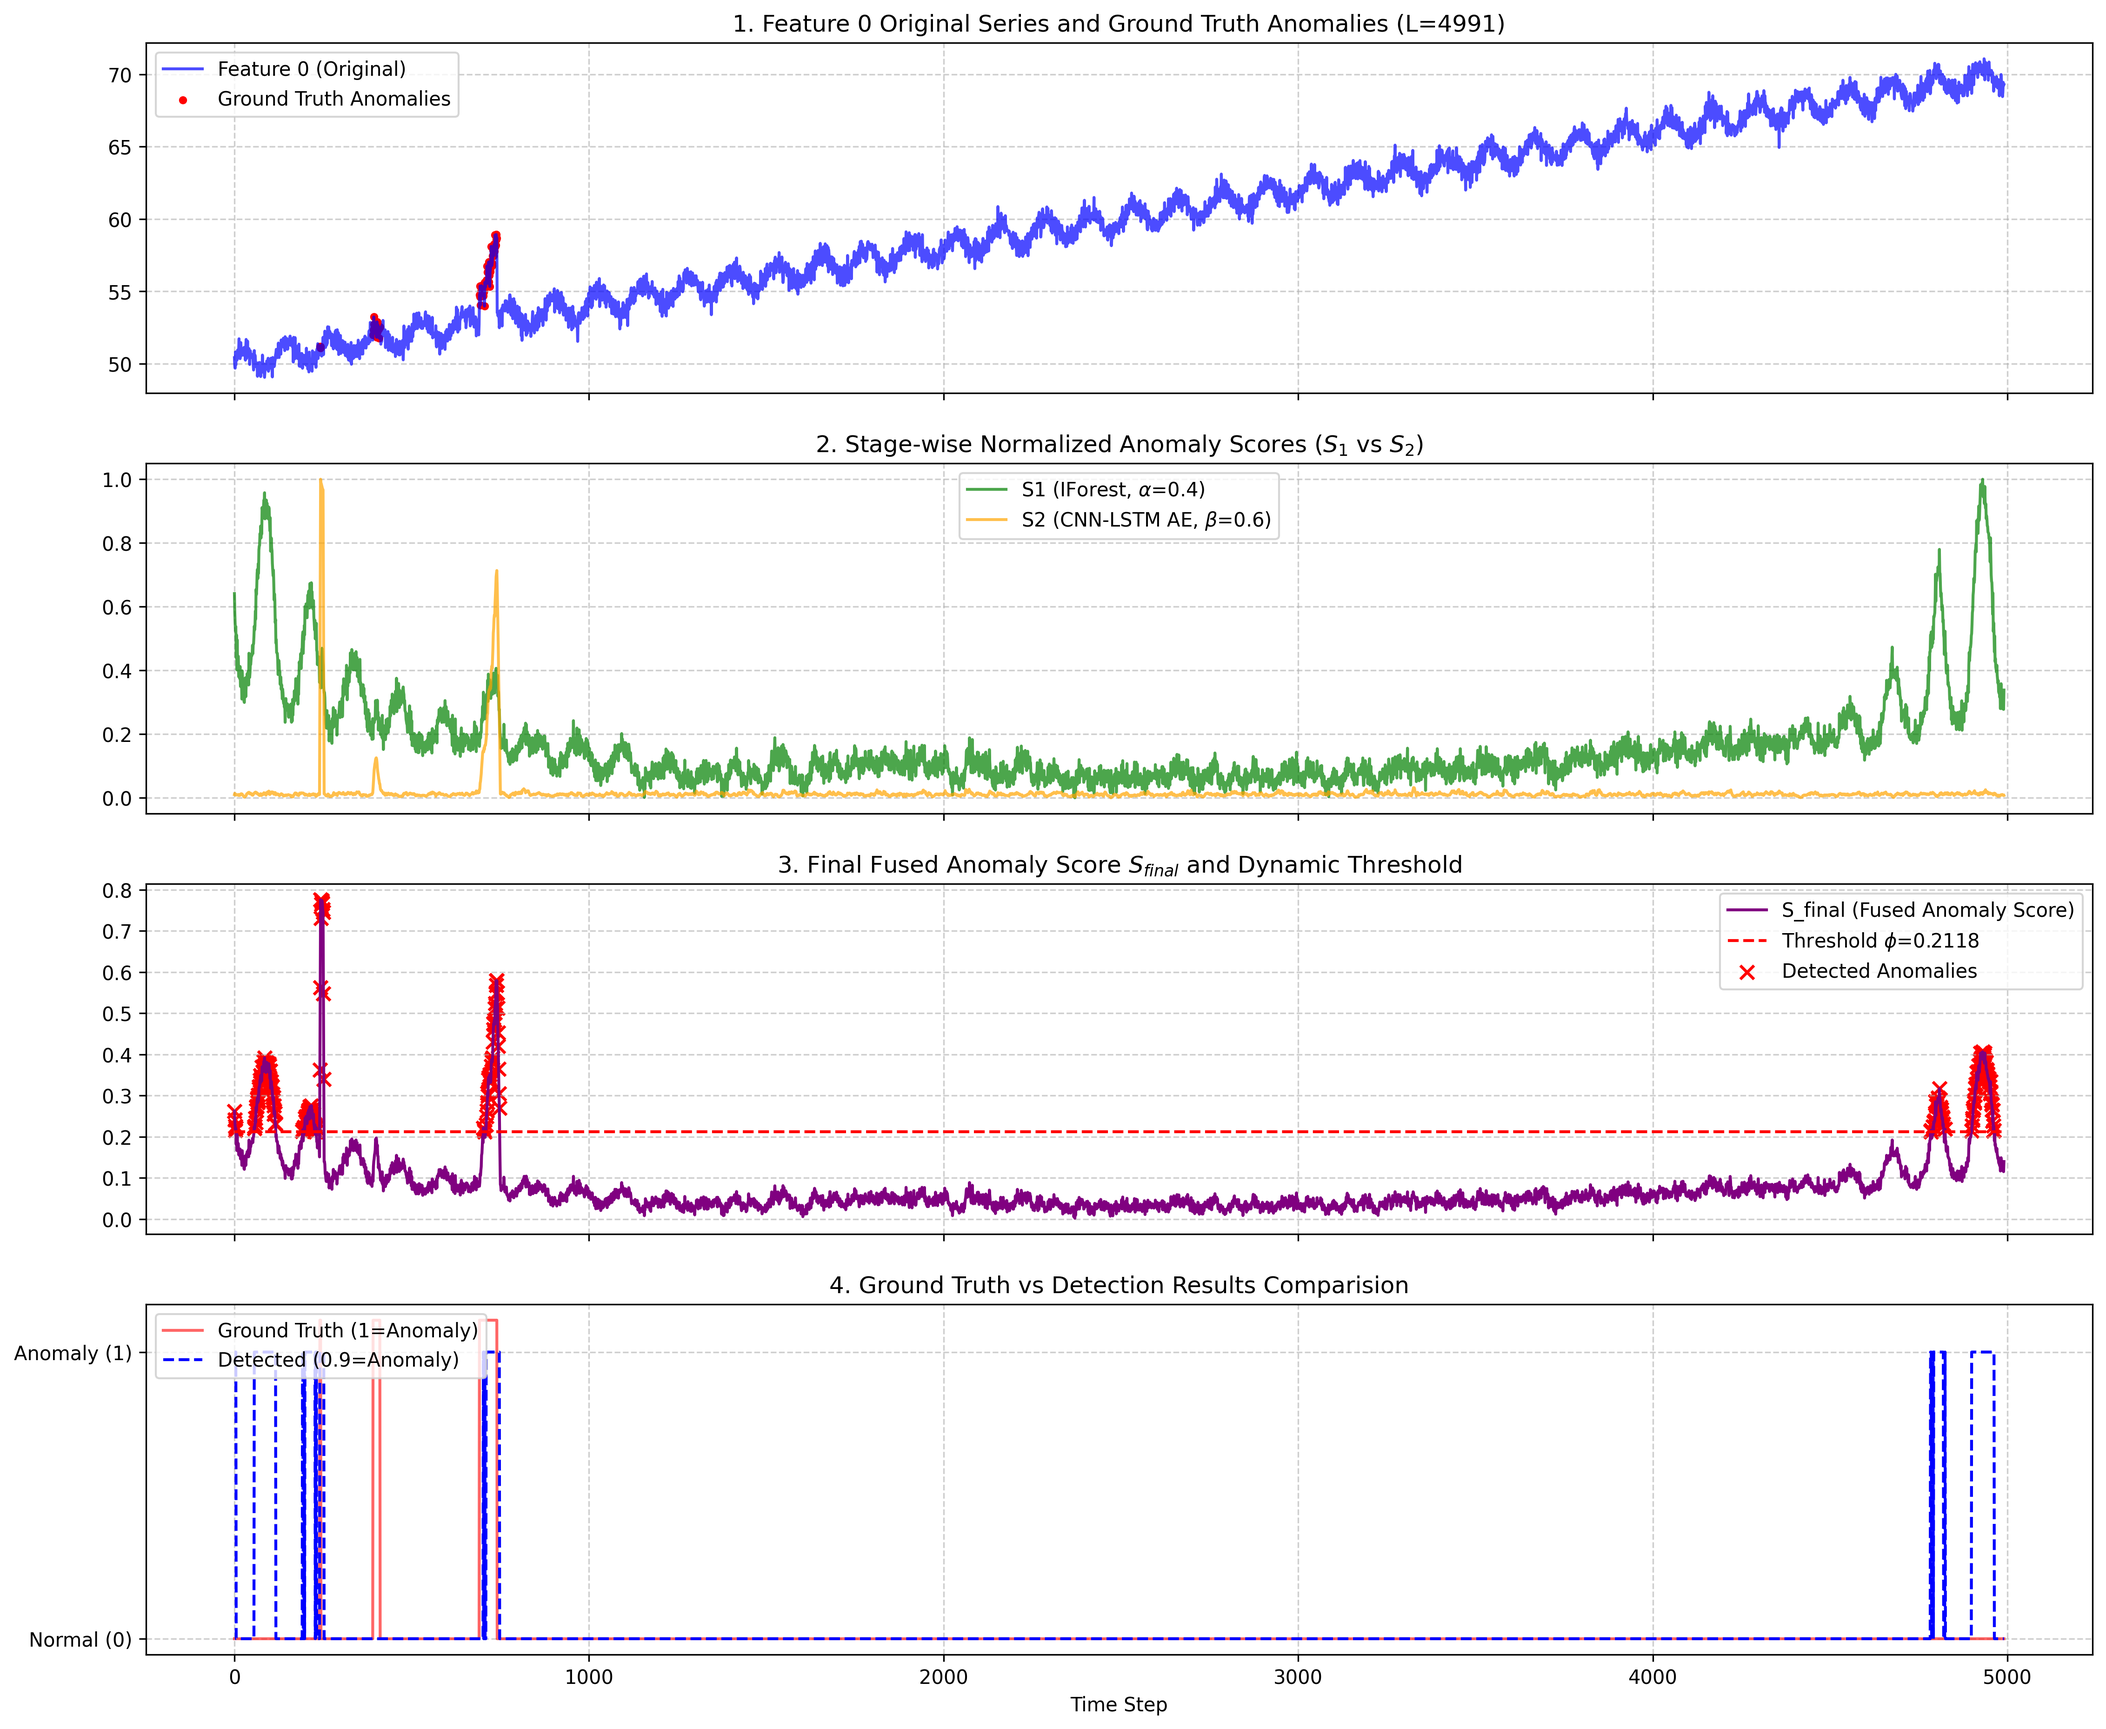
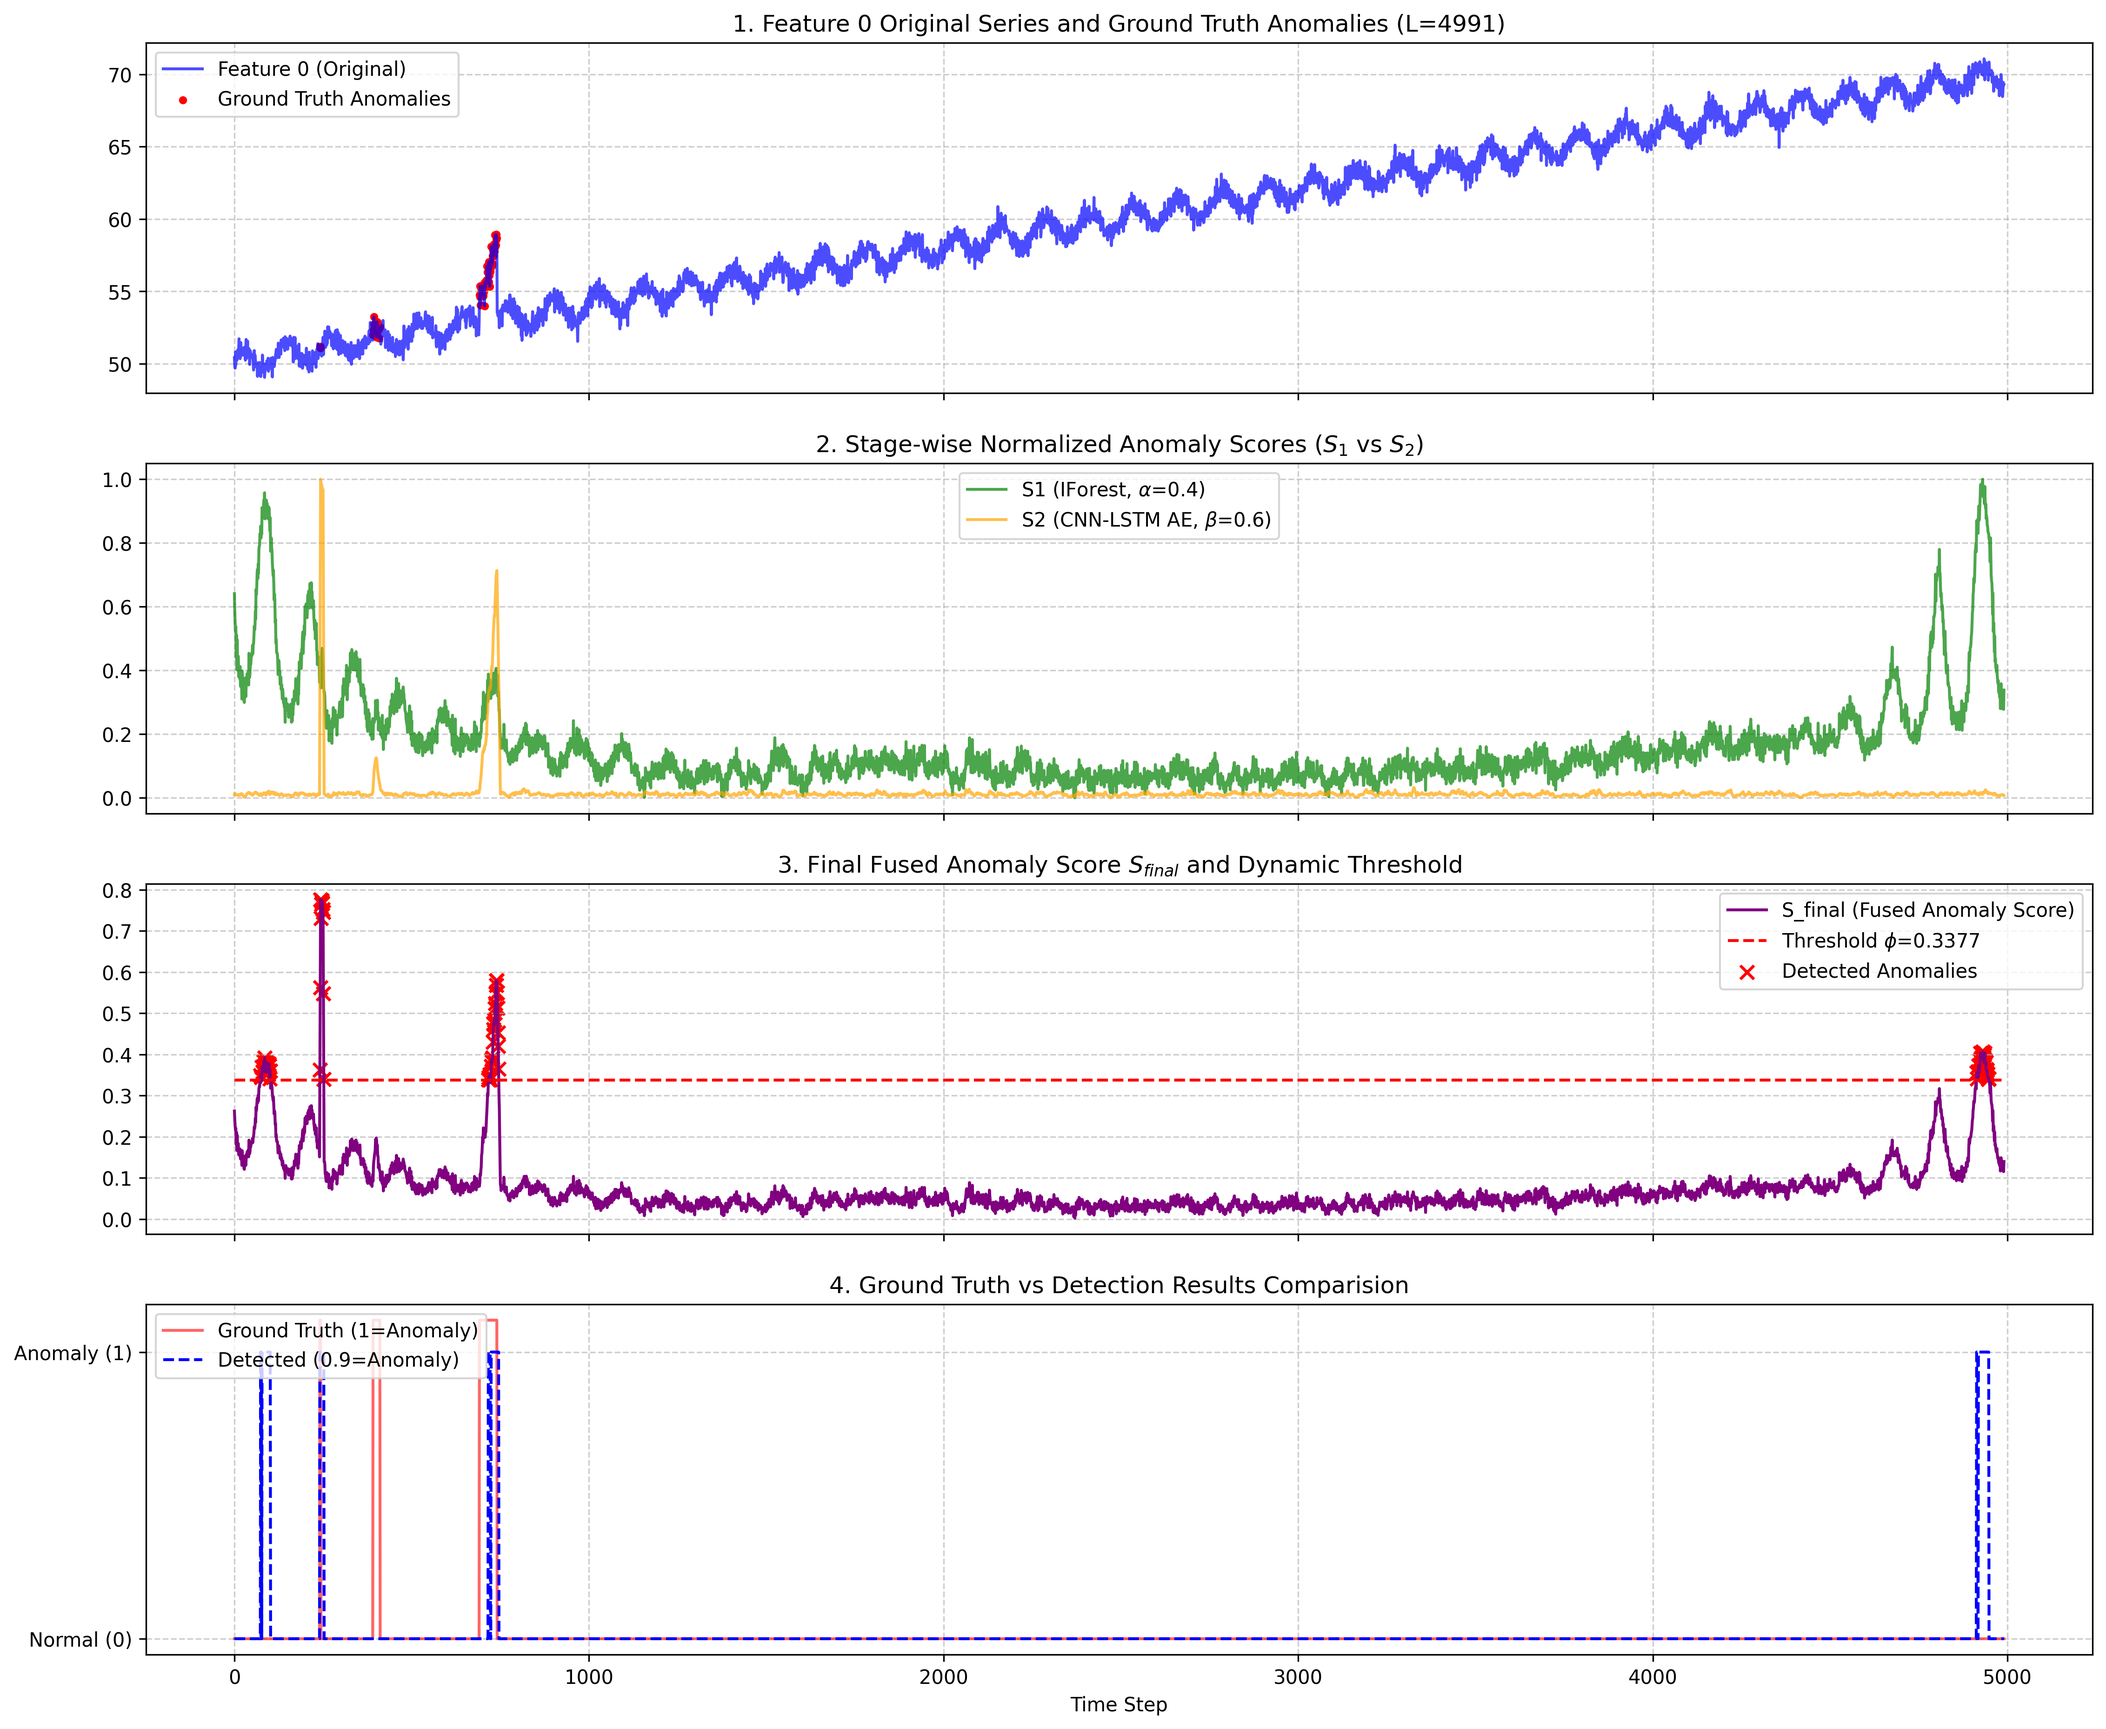
addd

diff --git a/multi_layer_tsad.py b/multi_layer_tsad.py
@@ -22,19 +22,19 @@ torch.manual_seed(42)
 # --- 配置参数 ---
 FILE_NAME = "multi_layer_tsad.py"
 # 时间窗口长度 (L)，用来捕捉时序依赖关系，可选范围5-50。5-10：适合短期模式，计算快，但可能丢失长期依赖；10-30:平衡短期和长期特征，推荐一般场景；30-50：捕捉长期趋势，但是计算成本高，需要更多训练数据
-WINDOW_SIZE = 10  
+WINDOW_SIZE = 20  
 
 # 金融运营指标维度 (D)，特征越多，模型复杂度越高，训练更多训练数据防止过拟合
 N_FEATURES = 10    
 
  # 预计的异常数据比例（用于阈值设定），异常污染率参数。预期数据中异常样本的比例，用于IForest和动态阈值计算
-CONTAMINATION = 0.05
+CONTAMINATION = 0.02
 
 # 融合权重: Alpha + Beta = 1
 # Stage 1 (IForest) 的权重，控制传统机器学习方法的影响力。Alpha越大，模型越偏向检测全局点异常（突发波动）
-ALPHA = 0.4  
+ALPHA = 0.5
 # Stage 2 (CNN-LSTM AE) 的权重
-BETA = 0.6   
+BETA = 0.5 
 # 融合公式： S_final = ALPHA * S1_norm + BETA * S2_norm
 
 # 模型训练参数
@@ -43,10 +43,10 @@ BETA = 0.6
 BATCH_SIZE = 64
 
 # CNN-LSTM自编码器的训练轮数，少轮次可能欠拟合，多轮次（30-100）可能过拟合，需要配合早停机制。
-EPOCHS = 10
+EPOCHS = 50
 
 # Adam优化器的学习率，控制参数更新步长。1e-4 - 5e-4: 训练稳定但是慢，适合精细调参；1e-3 - 5e-3: 推荐默认；5e-3 - 1e-2：训练快但可能不稳定或者发散。学习率越大，收敛越快但是可能跳过最优解
-LEARNING_RATE = 1e-3
+LEARNING_RATE = 5e-4
 # ------------------
 
 # ==============================================================================
@@ -59,7 +59,7 @@ class CNN_LSTM_AE(nn.Module):
     编码器: Conv1D(局部特征提取) + LSTM(时序依赖建模)
     解码器: LSTM(时序重构) + 全连接层(特征映射)
     """
-    def __init__(self, window_size, n_features, conv_units=32, lstm_units=64):
+    def __init__(self, window_size, n_features, conv_units=64, lstm_units=128):
         super(CNN_LSTM_AE, self).__init__()
         self.window_size = window_size
         
@@ -68,13 +68,16 @@ class CNN_LSTM_AE(nn.Module):
         # conv_units 卷积核数量，可选范围16-128，越大提取更丰富的局部特征，但是计算成本高
         # kernel_size，卷积核大小，可选范围2-7，5-7适合捕捉更长的局部模式
         self.conv1 = nn.Conv1d(in_channels=n_features, out_channels=conv_units, 
+                               kernel_size=5, padding=2)
+
+        self.conv2 = nn.Conv1d(in_channels=conv_units, out_channels=conv_units, 
                                kernel_size=3, padding=1)
         
         # LSTM 层：在时间维度上捕捉依赖
         # LSTM 期望输入 (Batch, Length, Features)
         # lstm_units 隐藏层大小，可选范围32-256，越大捕捉更复杂的时序依赖，但是容易过拟合且计算慢
         self.lstm1 = nn.LSTM(input_size=conv_units, hidden_size=lstm_units, 
-                              batch_first=True)
+                            num_layers=2, batch_first=True, dropout=0.2)
         
         # --- 解码器 (Decoder) ---
         # 用于将 LSTM 最终状态解码回序列
@@ -91,6 +94,7 @@ class CNN_LSTM_AE(nn.Module):
         
         # 2. 编码器 (CNN)
         x = torch.relu(self.conv1(x))
+        x = torch.relu(self.conv2(x))
         # 维度转换: (B, Conv_Units, L) -> (B, L, Conv_Units) for LSTM
         x = x.permute(0, 2, 1) 
         
@@ -209,13 +213,33 @@ def train_and_score_ae(X_windowed, win_len, n_dims):
     
     # 训练循环
     model.train()
+    best_loss = float('inf')
+    patience = 10
+    patience_counter = 0
+
     for epoch in range(EPOCHS):
+        epoch_loss = 0
         for [batch] in dataloader:
             optimizer.zero_grad()
             output = model(batch)
             loss = criterion(output, batch)
             loss.backward()
             optimizer.step()
+            epoch_loss += loss.item()
+
+        avg_loss = epoch_loss / len (dataloader)
+        if (epoch + 1) % 10 == 0:
+            print(f"  Epoch {epoch+1} / {EPOCHS}, Loss: {avg_loss: .6f}")
+
+        # early stop check
+        if avg_loss < best_loss:
+            best_loss = avg_loss
+            patience_counter = 0
+        else:
+            patience_counter += 1
+            if patience_counter >= patience:
+                print(f"  Early stop triggered at {epoch +1} !")
+                break
     
     # 计算异常分数 S2
     model.eval()
@@ -230,7 +254,66 @@ def train_and_score_ae(X_windowed, win_len, n_dims):
 
     return np.array(S2_scores)
 
-def multi_layer_detection_pipeline(series_data):
+def smooth_scores(scores, window=5): 
+    if len(scores) < window:
+        return scores
+    smoothed = np.convolve(scores, np.ones(window) / window, mode='same')
+    smoothed[:window//2] = scores[:window//2]
+    smoothed[-(window//2): ] = scores[-(window//2): ]
+    return smoothed
+
+def find_best_threshold(y_true, scores, metric='f1', min_precision=0.10):
+    thresholds = np.percentile(scores, np.arange(50, 99, 1.0))
+    best_score = -1
+    best_threshold = np.percentile(scores, 97)
+    best_precision = 0
+    best_recall = 0
+
+    result = []
+    for thresh in thresholds:
+        predictions = (scores >= thresh).astype(int)
+        n_predicted = np.sum(predictions)
+        if n_predicted == 0 or n_predicted == len(predictions):
+            continue
+        
+        precision = precision_score(y_true, predictions, zero_division=0)
+        recall = recall_score(y_true, predictions, zero_division=0)
+
+        if precision < min_precision:
+            continue
+
+        if metric == 'f1':
+            beta = 1.0
+        elif metric == 'f0.5':
+            beta = 0.5
+        elif metric == 'f2':
+            beta = 2.0
+        else:
+            beta = 1.0
+
+        if precision + recall > 0:
+            current_score = (1 + beta**2) * precision * recall / (beta**2 * precision + recall)
+        else:
+            current_score = 0
+
+        result.append({
+            'threshold': thresh,
+            'score': current_score,
+            'precision': precision,
+            'recall': recall,
+            'n_predicted': n_predicted
+        })
+
+        if current_score > best_score:
+            best_score = current_score
+            best_threshold = thresh
+            best_precision = precision
+            best_recall = recall
+
+    if best_score <=0 and min_precision > 0.05:
+        return find_best_threshold(y_true, scores, metric=metric, min_precision= min_precision / 2)
+
+def multi_layer_detection_pipeline(series_data, true_labels=None):
     """执行多层异常检测策略"""
     
     # 1. 数据预处理
@@ -256,11 +339,17 @@ def multi_layer_detection_pipeline(series_data):
     # --- 阶段 3: 分数融合与决策 ---
     
     # 融合分数 S_final = ALPHA * S1_norm + BETA * S2_norm
-    S_final = (ALPHA * S1_norm) + (BETA * S2_norm)
+
+    S_final_raw = (ALPHA * S1_norm) + (BETA * S2_norm)
+    S_final = smooth_scores(S_final_raw, window = 10)
     
     # 动态阈值确定 (基于污染率)
-    threshold = np.percentile(S_final, (1 - CONTAMINATION) * 100)
-    
+    if true_labels is not None:
+        y_true_aligned = true_labels[WINDOW_SIZE -1: ]
+        threshold, best_score, best_prec, best_rec = find_best_threshold(y_true_aligned, S_final, metric='f1', min_precision=0.20)
+    else:
+        threshold = np.percentile(S_final, (1 - CONTAMINATION) * 100)
+
     # 最终判定
     D_final = (S_final >= threshold).astype(int)
     
@@ -343,7 +432,7 @@ if __name__ == "__main__":
     
     # --- 2. 执行多层异常检测策略 ---
     scaled_series, S1_norm, S2_norm, S_final, D_final, threshold = \
-        multi_layer_detection_pipeline(series_data)
+        multi_layer_detection_pipeline(series_data, true_labels=true_labels)
         
     # --- 3. 结果评估 (与模拟标签对比) ---
     # 窗口化对齐真实标签
